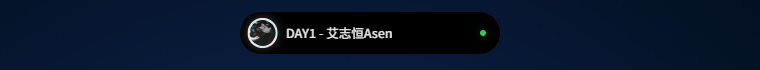
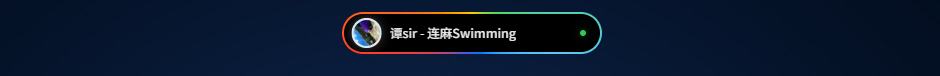
更新了README.md

Changed region(s): [[0.3026, 0.1429, 0.6658, 0.7714]]

diff --git a/README.md b/README.md
@@ -2,8 +2,9 @@
 
 一款基于 **Tauri 2 + Vue 3** 构建的桌面动态网速监控工具，提供灵动岛风格的悬浮窗实时显示网络速度，并支持流量数据统计分析、灵动岛个性化设置与网易云音乐控制。
 
-![NetSpeed Dynamic 效果图](./src/assets/screenshot.png)
 ![NetSpeed Dynamic 效果图](./src/assets/screenshot2.png)
+![NetSpeed Dynamic 效果图](./src/assets/screenshot3.png)
+![NetSpeed Dynamic 效果图](./src/assets/screenshot.png)
 
 ## 功能特性
 